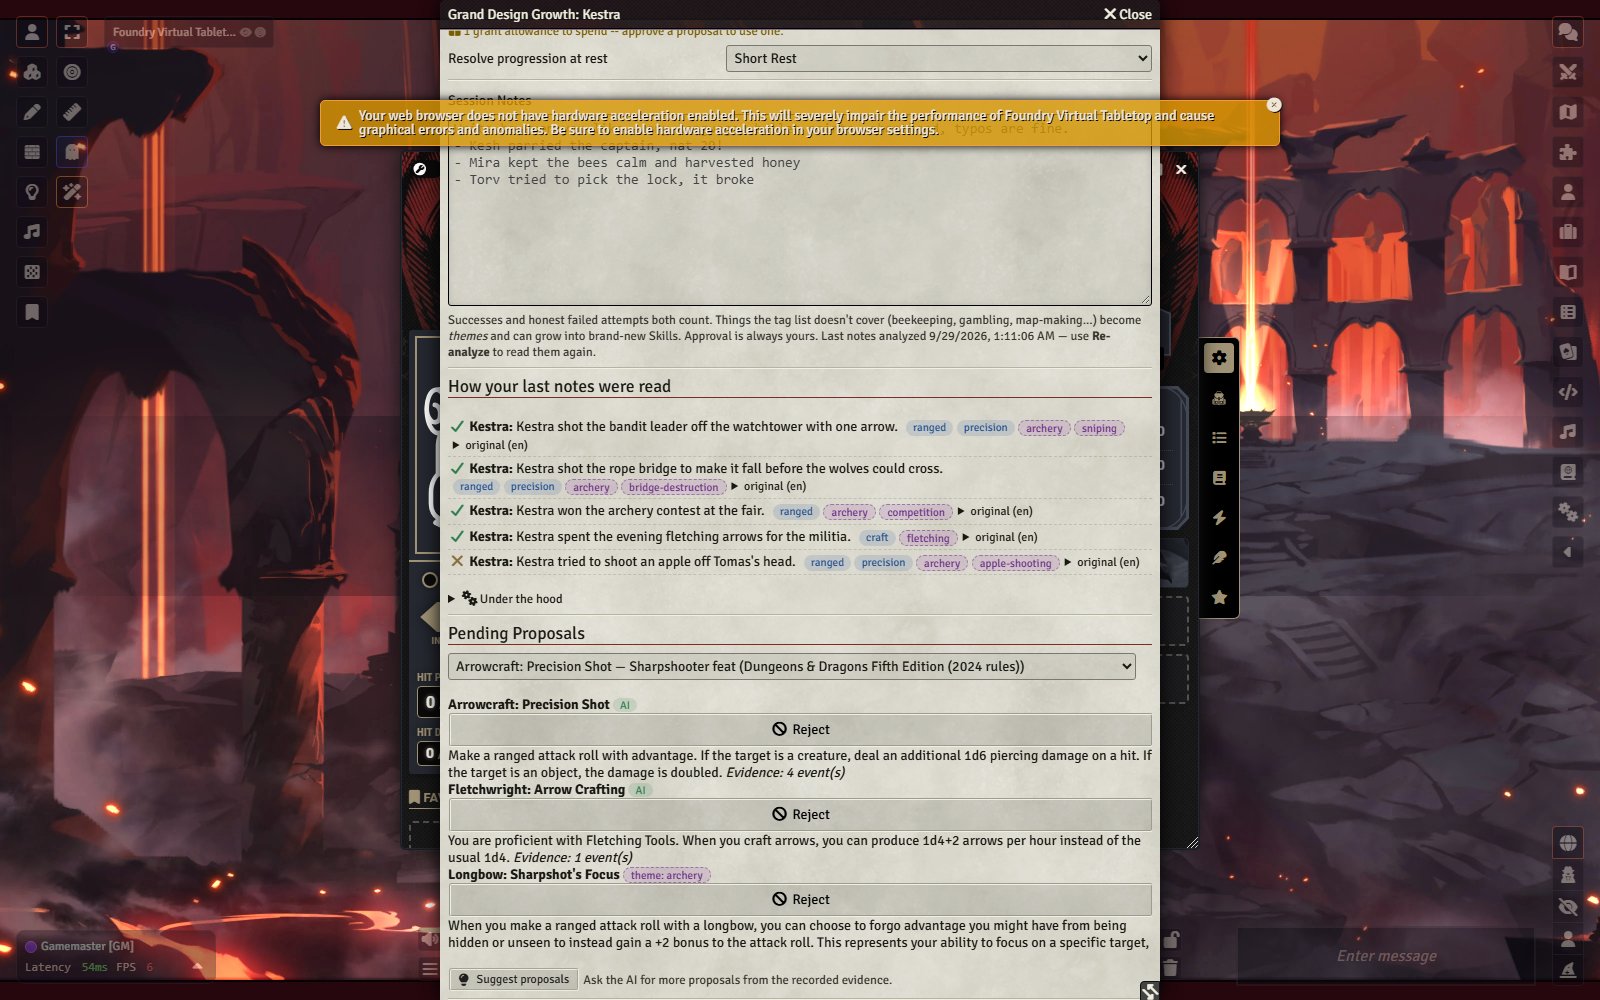
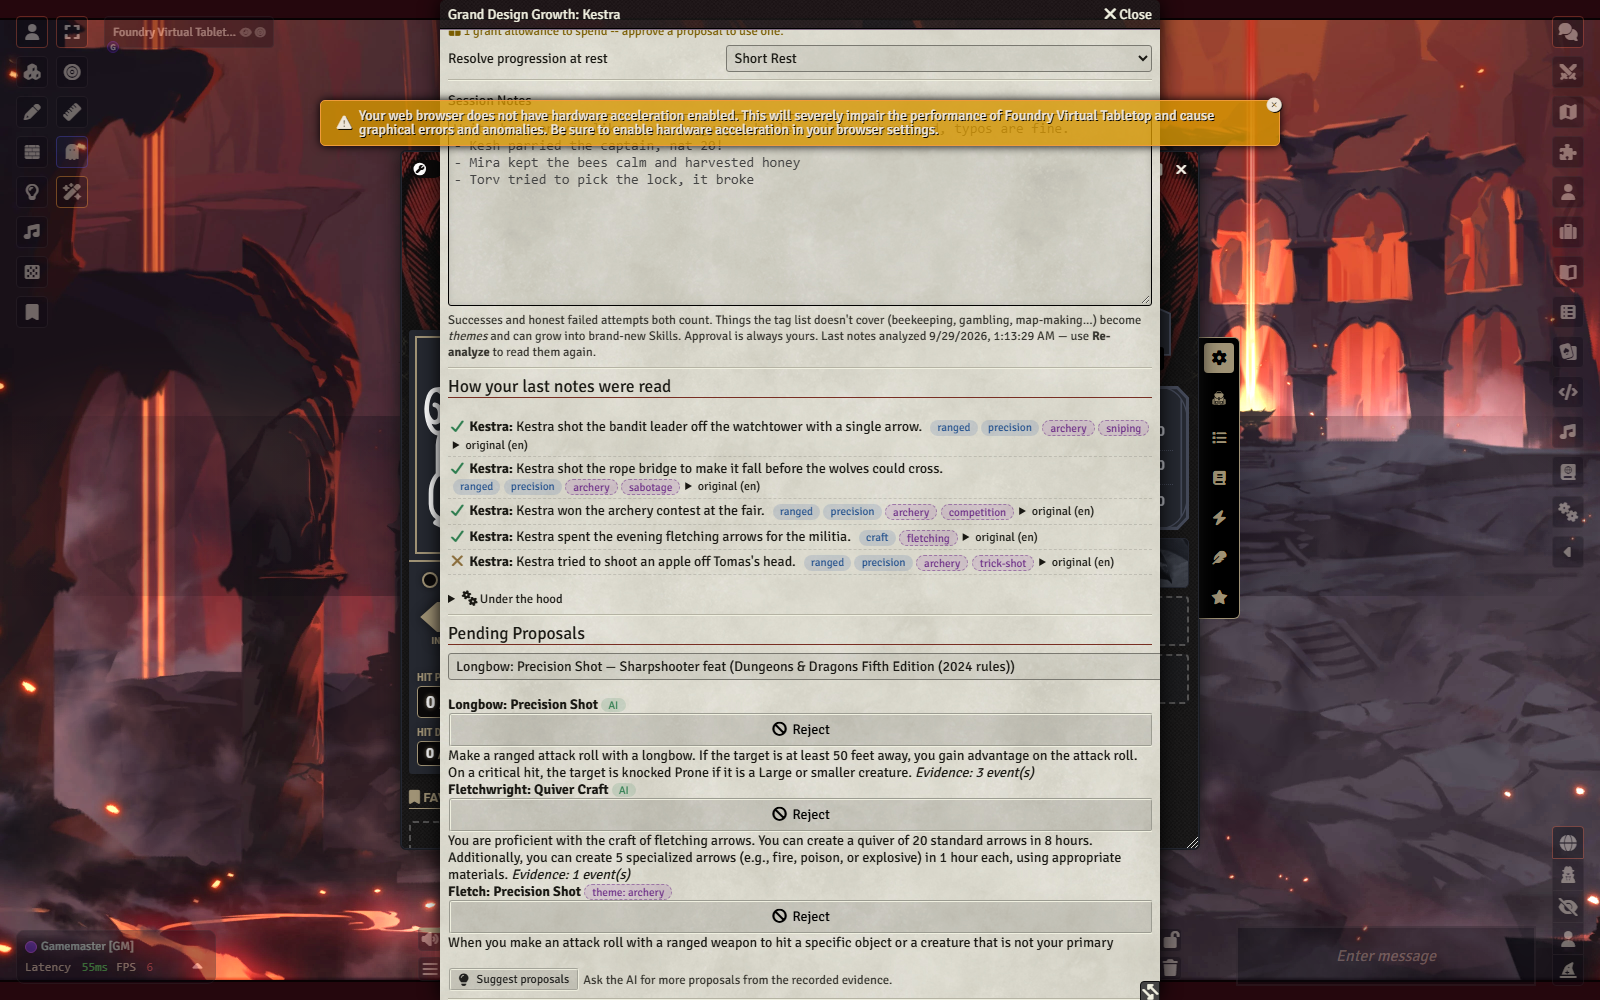
Close the first AI-first batch (verified live in dnd5e); status and boards
Claude-Session: https://claude.ai/code/session_01UbrjpFqF59DpmacauxQ9tR

diff --git a/CLAUDE.md b/CLAUDE.md
@@ -12,7 +12,7 @@ source: `foundry-module/`. Live install: `%LOCALAPPDATA%\FoundryVTT\Data\modules
 
 ## Commands (run from `foundry-module/`)
 ```powershell
-npm test                                    # 840 unit tests, ~30 s, no network
+npm test                                    # 907 unit tests, ~30 s, no network
 node tools/nlp-scale/job-runner.mjs         # job queue for real-model scale runs (see below)
 node tools/nlp-scale/run.mjs --model qwen3:30b-a3b --reps 3            # full corpus vs local Ollama
 node tools/nlp-scale/run.mjs --model qwen3:30b-a3b --filter traps,non-english --reps 5
@@ -83,9 +83,18 @@ Grappler's Resilience). Landed: proposal quality gates (owned-Skill / class-feat
 terms rewritten or skipped, bare class motifs re-coined), pending cap, C5 review (eventDedupeKey includes the
 actor; differentActors ignores titles). 840 tests + 1 todo. Foundry was down: the PF2e live check is pending.
 
-Open, in order (see the board):
-1. Extraction: softened dark deeds, two deeds per event, smashed-lock misread (pf2e s2), over-splits.
-2. Proposals: tier-1 balance outliers (beef7277), rd-008 red miss, bland re-coined motifs, single-session failures.
-3. Playtest: salt-lantern s3 and ember-road s4 to exercise the new gates on both systems.
-4. Live Foundry (both worlds): Suggest/Reject buttons + the PF2e live check, when the server is up.
-5. Cloud packets C1-C3; the repair-turn redCheck todo (low).
+2026-09-29: gap audit (3 code audits + live Foundry audit) filed 40 items under the epic "AI-first Grand
+Design" (278670bb, 5 features). First batch landed and verified LIVE in EndexDND 5E (build c579a64,
+`tools/playtest/live-verify.mjs` 15/15): "Author with AI" really authors (adapter.authorProposal, stage-2
+target); no templates/Knack placeholders when the AI read the notes; authored templates survive; Class
+evolutions stay approvable past their milestone; AI settings per USER (not browser) with an "AI expected"
+warning; adapter rebuilds on settings change; rest shows fallback warnings; milestone capstones tier 3;
+deploys stamp a build (0.28.x) shown at ready, in the Gateway form and Under the hood. 907 tests + 1 todo.
+Foundry: the owner authorised Claude to log in as Gamemaster (no password) and drive the worlds.
+
+Open, in order (see the board, epic 278670bb):
+1. PF2e live verify (switch to world "endex" when free; Ollama is shared with MandoAI).
+2. AI authoring feature: milestone retry, fallback numbers/rolls, naming, near-duplicate proposals, theme slugs.
+3. Advanced mechanics feature (evolution, merge, titles, Horror Rank, combos) + registry UI.
+4. Real game items (structured damage/saves/modifiers), proposal details/edit, party analyze, Populate AI.
+5. Earlier items: softened dark deeds, over-splits, tier-1 balance, rd-008.
